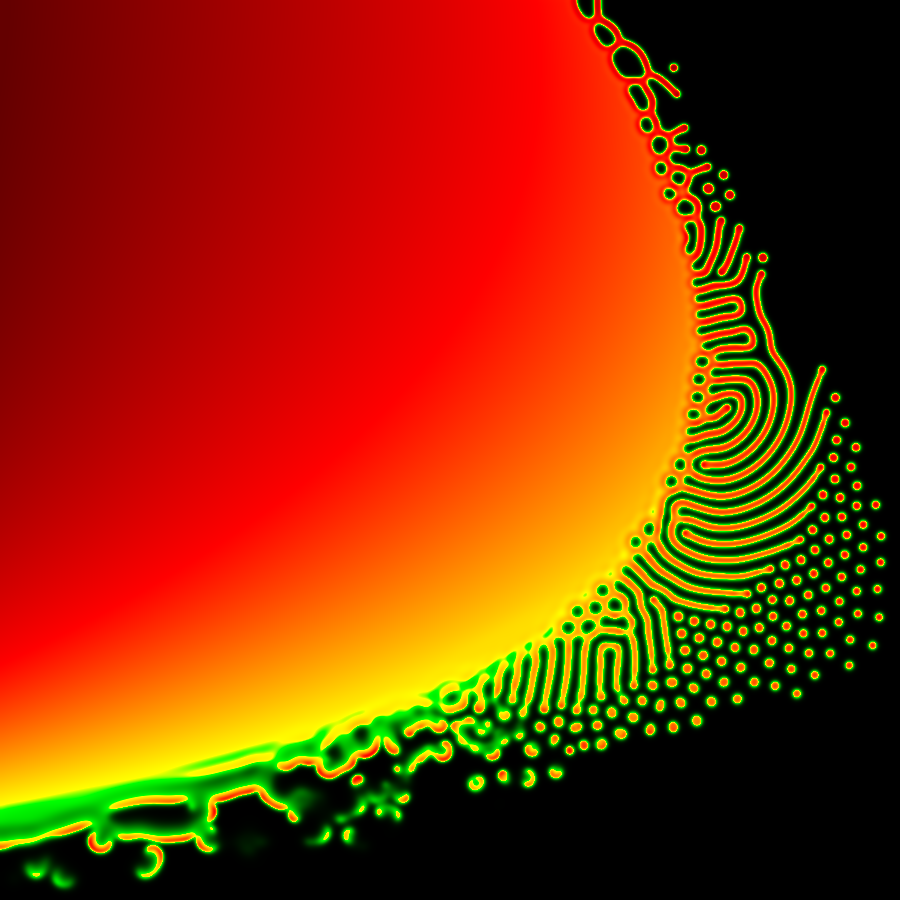
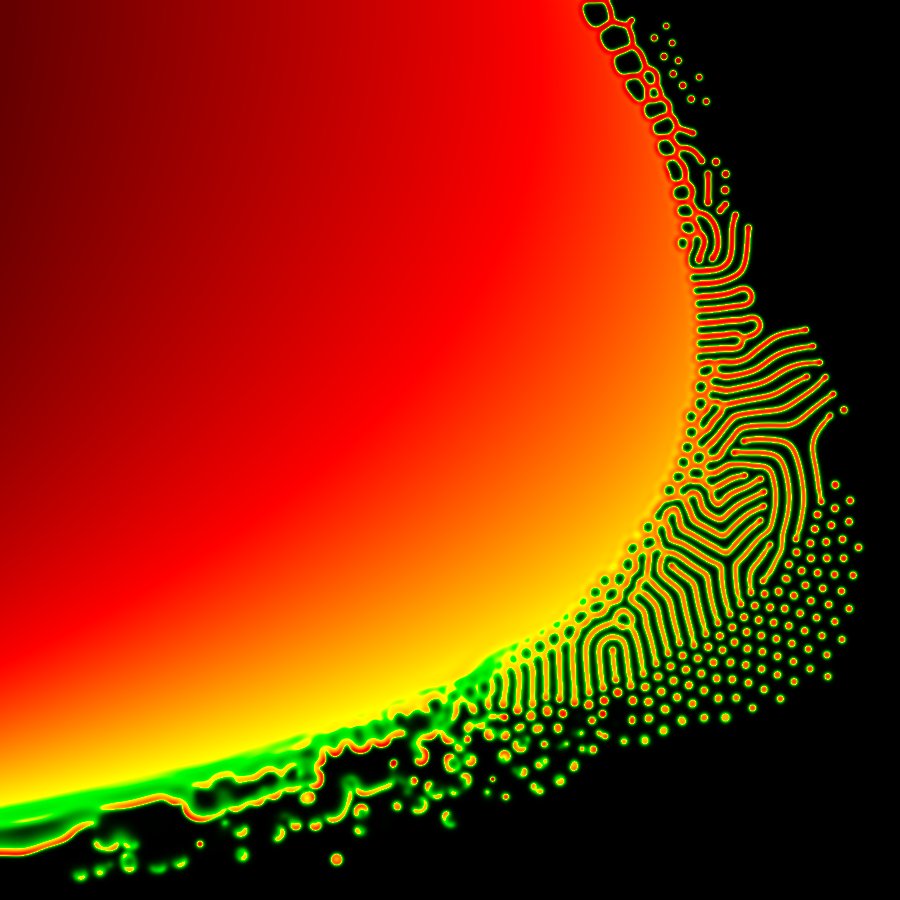
Updating dA/dB to match Xmoprhia/pmneila docs

Changed region(s): [[0.0, 0.0, 0.9956, 0.9956]]

diff --git a/gpu-version/js/parameterMetadata.js b/gpu-version/js/parameterMetadata.js
@@ -12,12 +12,12 @@ export default {
   dA: {
     min: 0.2,
     max: 0.25,
-    initial: .2
+    initial: .2097
   },
   dB: {
     min: 0.01,
     max: 0.8,
-    initial: .1
+    initial: .105
   },
   timestep: {
     min: 0.0,
